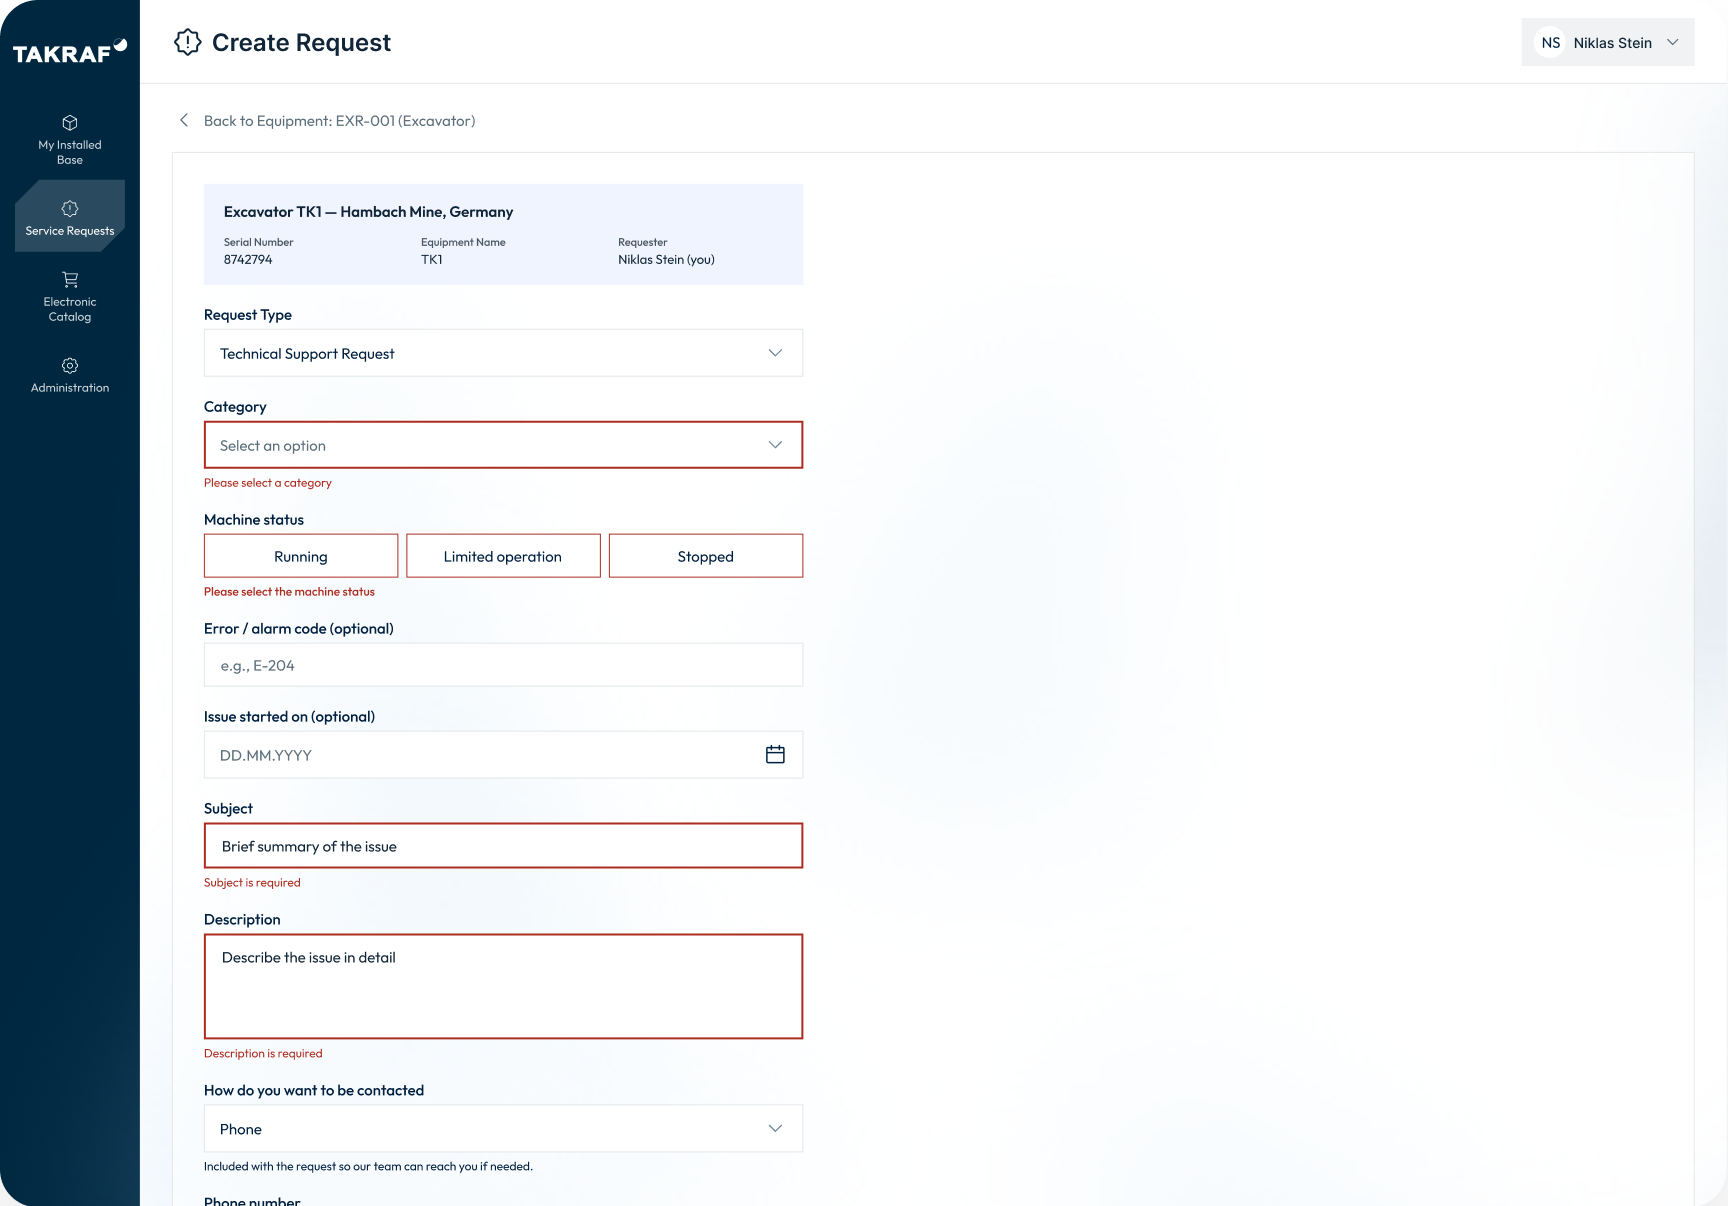
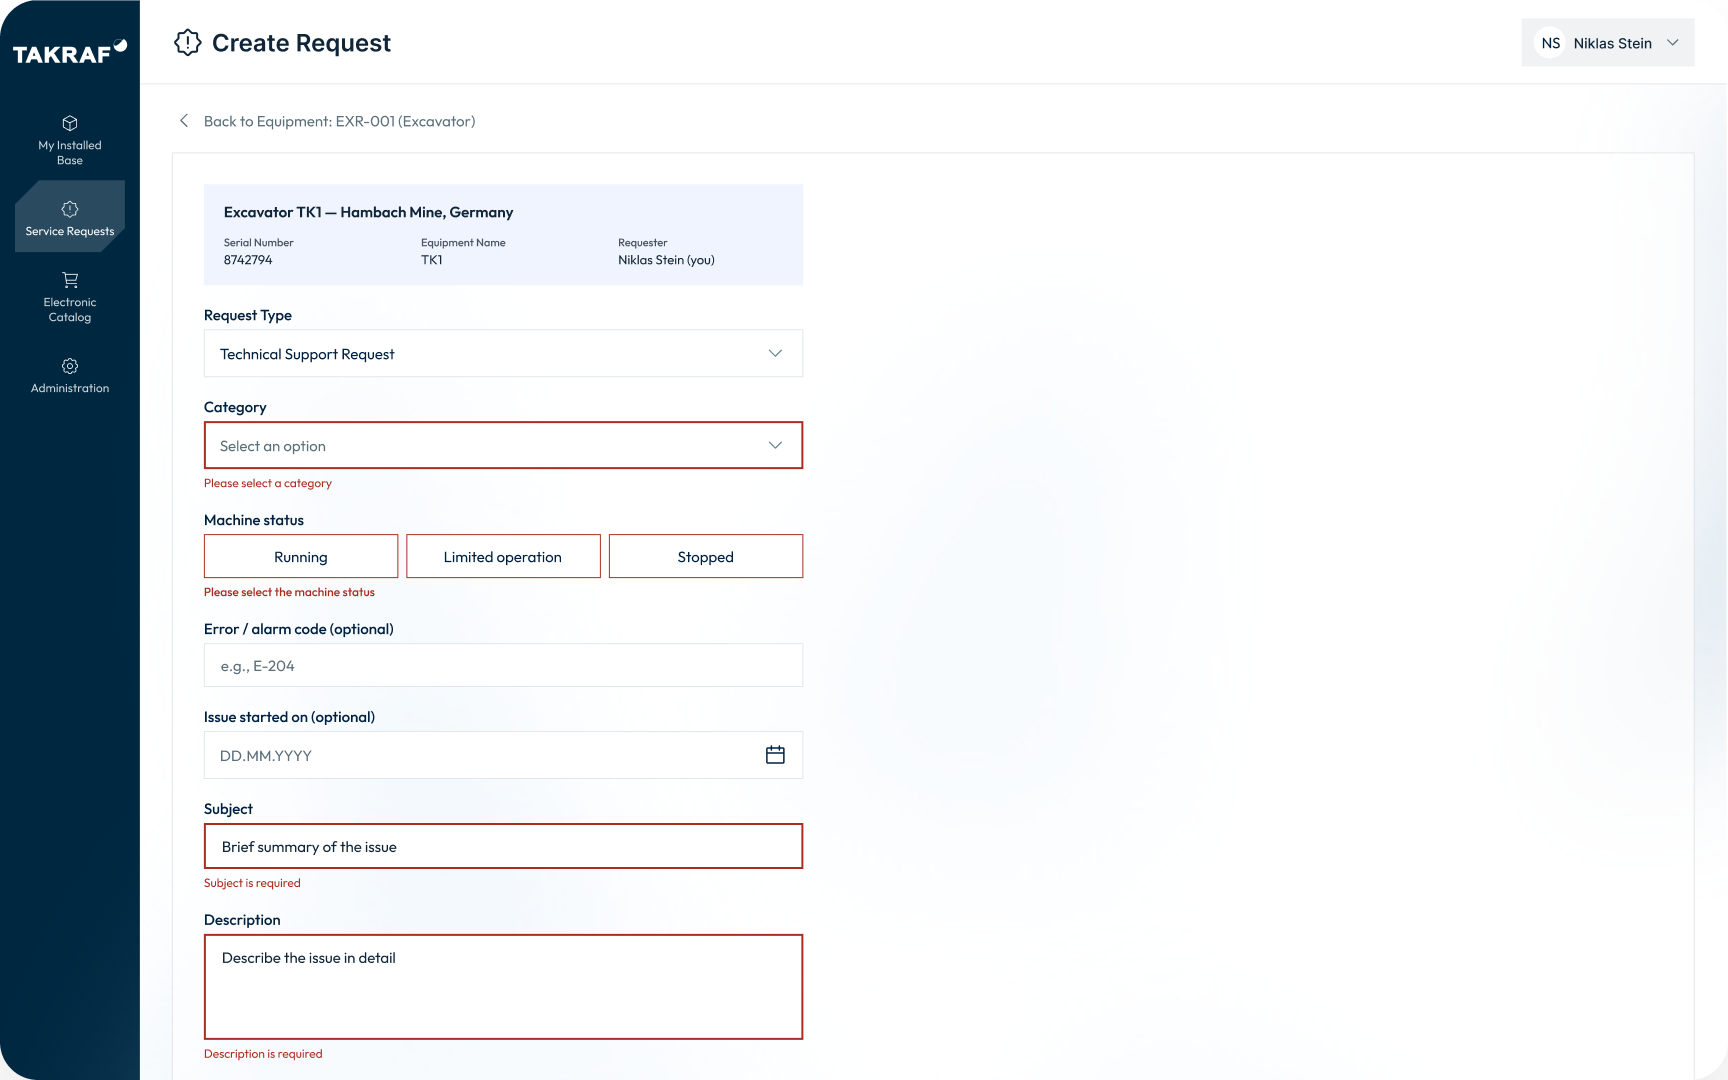
TAKRAF: session expired, fix Img, remove duplicates

diff --git a/src/data/cases.ts b/src/data/cases.ts
@@ -141,7 +141,7 @@ const takraf: Case = {
       heading: 'Together with developers, I designed every state a flow can be in: errors, success, expired sessions and no access.',
       blocks: [{ type: 'images', images: [
         { src: 'takraf/state-validation.png', alt: 'Request form with validation errors under required fields', caption: 'Validation errors' },
-        { src: 'takraf/state-success.png', alt: 'Administration list with a success toast after approving a user', caption: 'Success toast' },
+        { src: 'takraf/state-session-expired.png', alt: 'Session expired screen with a short explanation and a Sign in again button', caption: 'Session expired' },
       ] }],
     },
     {
